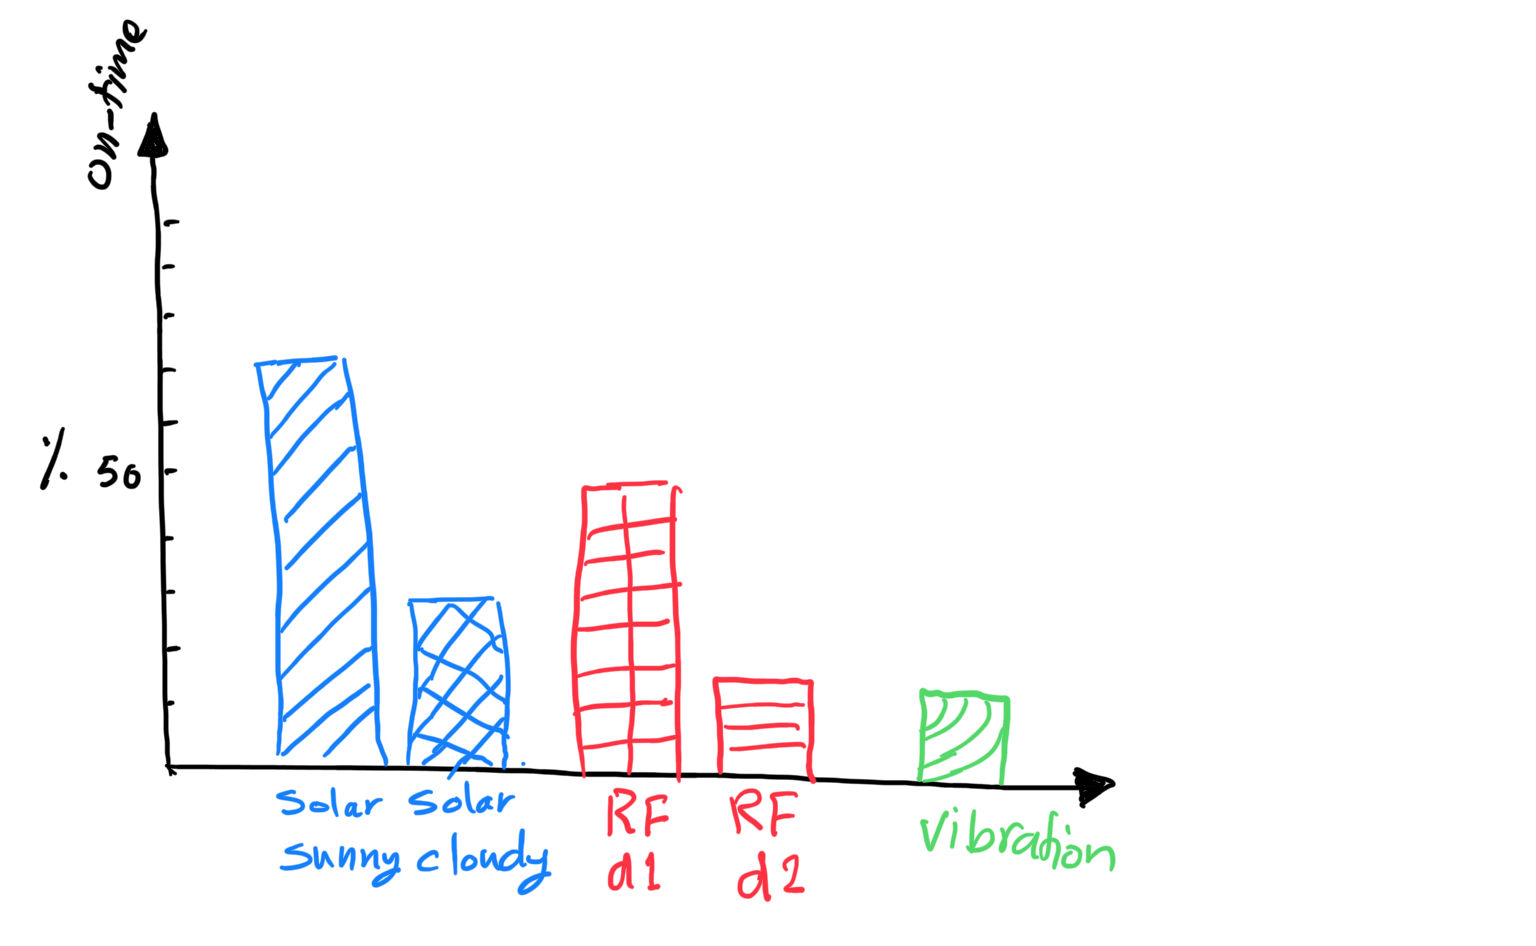
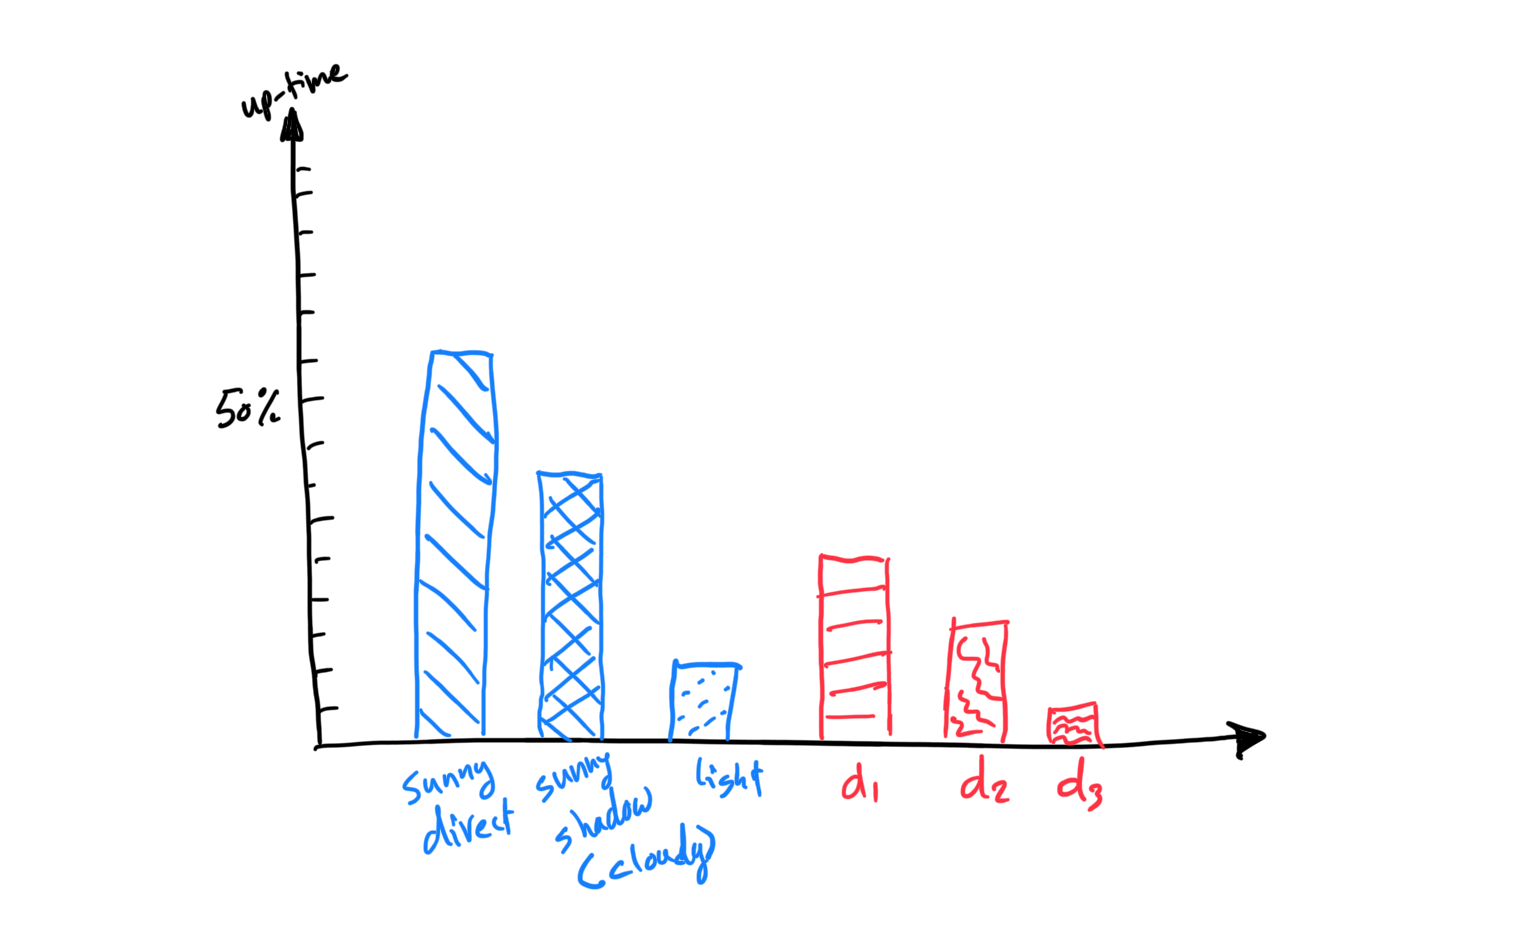
abstract and intero partial update

Changed region(s): [[0.0312, 0.0311, 0.8438, 0.9646]]

diff --git a/paper/sections/introduction.tex b/paper/sections/introduction.tex
@@ -1,39 +1,51 @@
 
 \begin{figure}
 	\centering
-	\begin{subfigure}{\columnwidth}
+%	\begin{subfigure}{\columnwidth}
 		\includegraphics[width=\columnwidth]{figures/intermittent_problem}
-		\caption{The on-time percentage of an intermittent device powered by different energy sources relative to its on/off cycle length}
+		\caption{The up time percentage of an intermittent device powered by different energy sources relative to its on/off cycle length}
 		\label{fig:disInterSys}
-	\end{subfigure}
-	\begin{subfigure}{\columnwidth}
-		\includegraphics[width=\columnwidth]{figures/PowerCycleIntermittentSystem}
-		\caption{The power cycle of an intermittently powered device.}
-		\label{fig:powerCycle}
-	\end{subfigure}
+%	\end{subfigure}
+%	\begin{subfigure}{\columnwidth}
+%		\includegraphics[width=\columnwidth]{figures/PowerCycleIntermittentSystem}
+%		\caption{The power cycle of an intermittently powered device.}
+%		\label{fig:powerCycle}
+%	\end{subfigure}
 \end{figure}
 
-Intermittently powered devices use their environment as an energy source instead of batteries. Therefore, they promise a small, cheap, and maintenance-free version of the current Internet of Things (IoT) edge devices. Driven by this vision, recent years have paid significant attention to intermittent systems~\cite{hicks2017clank,lucia2017intermittent,colin2016chain,colin2018termination,yildirim2018ink}. 
-%
-%%% knowledge gap, unknown information
-However, their inherent sporadic operation patterns (Figure~\ref{fig:disInterSys}) have prevented researchers from demonstrating real word applications, for example \cite{colin2016chain,hester2017timely} present activity recognition applications without driving a real sensor to capture external signals.
 
+
+The Internet of Things is the engine that will drive smart cities. In these cities, cars will not need to wait in front of traffic lights for non-existing pedestrians to cross the road; upon leaving, doors will provide people with weather forecast; and jackets will adjust air circulation based on body temperature. Smart cities will gain their awareness through billions of sensors.
+
+Battery-powered sensors do not provide a viable solution, as batteries require (i) regular maintenance, even rechargeable ones wear out in a few years \cite{xxx}; and (ii) hazard waste management. The edges of the future Internet of Things must leave batteries behind and rely on perpetual energy sources. 
+
+Sunlight, artificial light, and radio frequency waves are examples of perpetual energy sources that can replace the fixed energy reservoirs (batteries). Tiny energy harvesters, however, can only scavenge a very limited power from such energy sources. Therefore, harvesters power sensory nodes intermittently: first, they accumulate a certain amount of energy in their buffers (i.e. super-capacitors). Then, they trigger nodes operation which depletes the buffered energy quickly as power consumption rates tend to be much higher than power accumulation rates. Intermittent Power supply generates many challenges. For example, preserving forward computation progress, enabling timely operations, and the fact that nodes are not always available. 
+
+%Energy harvesters are a promising battery replacement, scavenging power from ambient sources instead of fixed reservoirs. A tiny energy harvester, however, powers a device intermittently: it accumulates energy in its buffer (i.e. super-capacitor) until a threshold is reached, and then it powers the sensors which depletes the energy reservoir and terminates execution. 
+
+Many intermittent power-supply related problems have been addressed. For example, intermittent computation problem, which is concerned with the preservation of an application progress and memory integrity under frequent power failures~\cite{mementos,dino,colin2016chain}; timely operation, which is concerned with data freshness after a power interrupt; event-driven execution, which is concerned with I/O operations under arbitrarily-timed power loss. However, all previous work has considered the intermittency as an inherent characteristic of these systems and have not attempted to control it \todo{make it clear that intermittency is a random process}.  
+
+Despite the significant progress that has been achieved in the intermittent domain, the system availability problem has not been addressed. With arbitrarily timed and time-spanned power-ups, intermittently-powered sensors do not meet the requirements of a wide spectrum of real-world applications. Consequently, they have not gained widespread adaptation. This paper tackles the paradox of continuous sensing on intermittent devices by introducing a new type of sensors that we call \textit{\fullsys} (\sys). The \sys is defined as a group of intermittent nodes with randomized on/off cycles. \sys distinguishes between different energy conditions and adapts its response accordingly to efficiently distribute its resources and to approach continuous sensing.  
+
+We put our observations and theory into test by realizing a \sys instant in the form of distributed intermittent voice assistant agent. We tested the voice assistant in different energy conditions and the results validate our assumptions and observations. 
+
+Highlights of the paper contributions:
+\begin{itemize}
+		\item Introducing a new sensor type: \textit{\fullsys} (\sys) is a group of intermittently powered nodes that takes advantage of the randomized nature of the powering subsystem (energy source and energy harvester) to approach 100\% system availability. \sys has a sensing algorithm that is energy harvesting conditions aware and therefore it is an efficient sensor. 
+		\item Characterizing the behavior of coalesced intermittent sensor under different energy conditions.
+		\item Characterizing the behavior of coalesced intermittent sensor under different event occurrence frequencies and patterns. 
+		\item Implement a coalesced intermittent sensor in the form of a distributed intermittent microphone array. 
+\end{itemize}
+
+
+
+
+
+\todo{to be removed!}
 %
 %%% Hypothesis, question, purpose statement
-This paper responds to the challenge of intermittent power supply by introducing the concept of \textit{distributed intermittent systems}. A distributed intermittent system is defined as the abstraction of a group of tiny intermittently powered devices (or nodes). It increases the temporal and spatial availability of an intermittent system and enables resource distribution such as large number of words templates for spoken words recognition systems. The on-time of the distributed intermittent system should approach continuous time as the number of intermittent devices increases. However, the on-time and off-time of  distributed intermittent systems depend on the environment and the load. As such, we do not expect, for example, a linear relationship between the number of nodes and the overall on-time.
+ It increases the temporal and spatial availability of an intermittent system and enables resource distribution such as large number of words templates for spoken words recognition systems. 
 
 Controlling the on/off cycle of intermittent devices enables adapting them to many real world applications. For example, once a certain on/off cycle is preserved, an intermittent wake-up receiver can be implemented; intermittent acoustic monitoring system for monitoring engines modules---the sound produced by a deformed gear tooth---can be made. Moreover, with the advances in passive communication (such as passive light~\cite{}, and backscatter tag-to-tag~\cite{} communication) battery-free miniaturized sensors can form self-powered wireless sensor network to, for instance, create smart wallpaper and revolutionize smart buildings. 
-
-
-This paper pushes the boundaries of intermittent systems by:
-\todo{update the contributions and challenges}
-\begin{itemize}
-		\item introducing \textit{distributed intermittent systems} to control the duration of the up time of intermittent sensors and increase their responsiveness,
-		\item investigating the relation between distributed intermittent systems power cycle and their environment,
-		\item demonstrating the \textit{world's first} distributed intermittent system: a distributed microphone. 
-\end{itemize}
-%\todo{add the challenges and contributions}
-%%% Approach, plan of attack, proposed solution
-
 
 

diff --git a/paper/sections/disSensing.tex b/paper/sections/disSensing.tex
@@ -24,7 +24,7 @@ Events aware intermittent devices tend to have a longer effective on-time: the t
 %An intermittent device uses a capacitor (a buffer) to store energy and, usually, the capacitor has operational and shutdown thresholds (Figure\,\ref{fig:powerCycle}). 
 The on-time evolution of a event-oblivious distributed intermittent system, as more nodes join, depends on the special diversity of its individual nodes.
 %Depending on their spatial diversity, the nodes of a distributed intermittent system can experience the same energy harvesting conditions or not.
-\subsection{Spatially diverse intermittent devices}
+\subsection{Intermittent devices}
 %
 \begin{figure}
 	\centering
@@ -45,39 +45,35 @@ where $t_{off}$ is the off-time of the distributed system, $t_{sp}$ is the perio
 
 As Figure\,\ref{fig:independentCoverage} shows adding nodes to intermittent distributed systems increases its overall on-time, and consequently, its responsiveness. It is also clear that the benefit of an additional node is inversely proportional to the distributed system's on-time. Equation~\ref{eq:indCov}, however, holds only when nodes wake-ups approximate a uniform distribution. \checkit{When the nodes are in close proximity, we cannot model their power cycles as a random variable drawn from a uniform distribution because their energy charging rates are correlated}. 
 
-\subsection{Spatially invariant intermittent devices}
+%%
+%\begin{figure}
+%	\centering
+%	\begin{subfigure}[t]{0.49\columnwidth}
+%		\includegraphics[width=\textwidth]{figures/offtime.pdf}
+%			\caption{off-time length distribution}
+%		\label{fig:offtime}
+%	\end{subfigure}
+%	\begin{subfigure}[t]{0.49\columnwidth}
+%		\includegraphics[width=\textwidth]{figures/ontime.pdf}
+%		\caption{on-time length distribution}
+%		\label{fig:ontime}
+%	\end{subfigure}
+%		\caption{The distributions of the operational stages of a distributed intermittent system.}		
+%\end{figure}
+%%
+
+The \textit{off-time} of an intermittent device depends only on the environment: high charging rate results in short charging time and vice versa. Hence, we may model the off-time as a random variable drawn from a normal distribution (Figure\,\ref{fig:offtime}). The \textit{on-time}, however, depends on the buffered energy---the harvested energy while the device is off---; the harvested energy while the device is on, which only prolongs the execution; and the load of the device. Therefore, if we assume the load is constant, then we can model the on-time as a random variable drawn from a gamma distribution can be more appropriate (Figure\,\ref{fig:ontime}). Another important factor is \textit{the relation} between the off-time and the on-time. Short off-time indicates a high charging rate. A high harvesting rate results in a non-negligible amount of the harvested-while-executing energy. This energy lengthens the on-time. Therefore, we can conclude that there is an inverse relationship between the on-time and the off-time.
+
 %
-\begin{figure}
-	\centering
-	\begin{subfigure}[t]{0.49\columnwidth}
-		\includegraphics[width=\textwidth]{figures/offtime.pdf}
-			\caption{off-time length distribution}
-		\label{fig:offtime}
-	\end{subfigure}
-	\begin{subfigure}[t]{0.49\columnwidth}
-		\includegraphics[width=\textwidth]{figures/ontime.pdf}
-		\caption{on-time length distribution}
-		\label{fig:ontime}
-	\end{subfigure}
-		\caption{The distributions of the operational stages of a distributed intermittent system.}		
-\end{figure}
+%To flatten the normal distribution we need to add another random variable that is drawn from a uniform-like distribution. To achieve that, we further randomize the length of the on-time of intermittent nodes by injecting delays---putting the nodes into sleep mode---upon devices' power-ups (Figure\,\ref{fig:spreading}). The maximum delay that can be added is bounded by the buffer size and the minimum energy consumption of the load. The length of this delay represents the spreading factor by which we spread the original distribution of the nodes' wake-ups.  
 %
-To understand how the on-time of a distributed intermittent system evolves when devices' power-ups are correlated, we need to investigate the \checkit{variance} of the off-time and on-time intervals.  
+%\begin{figure}
+%	\centering
+%		\includegraphics[width=\columnwidth]{figures/spreading.pdf}
+%	\caption{Spreading normally distributed intermittent devices over a larger range by injecting delays with a uniformly distributed lengths.}
+%	\label{fig:spreading}
+%\end{figure}
 
-The \textit{off-time} of an intermittent device depends only on the environment: high charging rate results in short charging time and vice versa. Hence, we may model the off-time as a random variable drawn from a normal distribution (Figure\,\ref{fig:offtime}). The \textit{on-time}, however, depends on the buffered energy---the harvested energy while the device is off---; the harvested energy while the device is on, which only prolongs the execution; and the load of the device. Therefore, if we assume the load is constant, then we can model the on-time as a random variable drawn from a gamma distribution can be more appropriate (Figure\,\ref{fig:ontime}). Another important factor is \textit{the relation} between the off-time and the on-time. Short off-time indicates a high charging rate. A high harvesting rate results in a non-negligible amount of the harvested-while-executing energy. This energy lengthens the on-time. Therefore, we can conclude that there is an inverse relationship between the on-time and the off-time. \checkit{By considering these three factors (on-time, off-time, and their relation), we can model the variation in intermittent devices' power cycles as a normal distribution}. As a result, when charging rates are correlated, the power-ups of intermittent nodes will tend to cluster around the mean instead of spreading over the entire power cycle of the distributed intermittent system. 
-
-\todo{relocate the following paragraph}
-To flatten the normal distribution we need to add another random variable that is drawn from a uniform-like distribution. To achieve that, we further randomize the length of the on-time of intermittent nodes by injecting delays---putting the nodes into sleep mode---upon devices' power-ups (Figure\,\ref{fig:spreading}). The maximum delay that can be added is bounded by the buffer size and the minimum energy consumption of the load. The length of this delay represents the spreading factor by which we spread the original distribution of the nodes' wake-ups.  
-
-
-\todo{Update equation 1 to include the spreading factor}
-
-\begin{figure}
-	\centering
-		\includegraphics[width=\columnwidth]{figures/spreading.pdf}
-	\caption{Spreading normally distributed intermittent devices over a larger range by injecting delays with a uniformly distributed lengths.}
-	\label{fig:spreading}
-\end{figure}
 %The energy charging rate is environment dependent, while the discharge rate is load dependent. If we assume ambient energy does not fluctuate very quickly, then we can conclude that there is an inverse relationship between the on-time (discharging time) and the off-time (charging time). Short charging time means fast energy shots arrival. High energy harvesting rate prolongs discharge (execution) time, as the device harvests a nonible amount of energy while executing. 
 
 

diff --git a/paper/sections/abstract.tex b/paper/sections/abstract.tex
@@ -1,9 +1,10 @@
+The vision of ubiquitous sensing runs into the reality of battery technology---batteries are short-lived (about 14,000 tons of rechargeable batteries are thrown away in United States); hazard; and costly, i.e. the replacement and the disposing costs. Intermittently powered sensors forgo batteries and power themselves from ambient energy. Ambient energy is marginal and unpredictable. Consequently, intermittent sensors operate sporadically, when sufficient energy to do a simple task is buffered. Sporadic sensing does not meet many real-world applications; therefore, intermittent sensors have not been widely adapted. We present \textit{\fullsys} (\sys) an intermittent sensor that sense continuously! The \sys design takes advantage of the randomization embedded into the powering subsystem---energy source and energy harvesters---to distribute its nodes uptime. Additionally, we realize the \sys in a prototype of a batteryless voice assistant agent. Our results show that x\% of the commands are captured \todo{uptime results}.
+%%
+%Small sensors are desired. As battery size shrinks, its stored energy reduces too. This imposes regular maintenance of devices otherwise functional. Sensors have to forgo batteries and rely on perpetual energy sources, such as light, to enable long-term affordable sensing. Battery-less sensors, however, operate intermittently, when ambient energy is available. Intermittent operation prevents wide adaptation of battery-less sensors as it does not meet the requirements of many real world applications. 
 %
-Small sensors are desired. As battery size shrinks, its stored energy reduces too. This imposes regular maintenance of devices otherwise functional. Sensors have to forgo batteries and rely on perpetual energy sources, such as light, to enable long-term affordable sensing. Battery-less sensors, however, operate intermittently, when ambient energy is available. Intermittent operation prevents wide adaptation of battery-less sensors as it does not meet the requirements of many real world applications. 
-
-To bridge this gap we propose the concept of a distributed intermittent system---the abstraction of a group of intermittently powered devices (or nodes). We hypothesize that as the number of intermittent devices increase their collective up time approaches continuous time. However, if power cycles of intermittently powered devices are correlated, then they may tend to cluster and the benefit of adding nodes demolish, unless special techniques are applied. 
-
-%The on/off cycles of intermittent devices can be correlated or not, depending mainly on their relative locations and running applications. If sensors' power cycles are uncorrelated, then adding more sensors to a distributed intermittent system enables longer observation timespan. Correlated power cycles, on the other hand, tend to cluster, around the mean of their distribution, and therefore adding more sensors is of less benefit unless special technique is applied. 
-
-This paper investigates distributed intermittent systems, proposes techniques to control the overall on-time of distributed systems, and demonstrates the first distributed intermittent system, namely, a distributed intermittent microphone. 
-
+%To bridge this gap we propose the concept of a distributed intermittent system---the abstraction of a group of intermittently powered devices (or nodes). We hypothesize that as the number of intermittent devices increase their collective up time approaches continuous time. However, if power cycles of intermittently powered devices are correlated, then they may tend to cluster and the benefit of adding nodes demolish, unless special techniques are applied. 
+%
+%%The on/off cycles of intermittent devices can be correlated or not, depending mainly on their relative locations and running applications. If sensors' power cycles are uncorrelated, then adding more sensors to a distributed intermittent system enables longer observation timespan. Correlated power cycles, on the other hand, tend to cluster, around the mean of their distribution, and therefore adding more sensors is of less benefit unless special technique is applied. 
+%
+%This paper investigates distributed intermittent systems, proposes techniques to control the overall on-time of distributed systems, and demonstrates the first distributed intermittent system, namely, a distributed intermittent microphone. 
+%

diff --git a/paper/sections/relatedWork.tex b/paper/sections/relatedWork.tex
@@ -2,6 +2,9 @@
 Many batteryless energy-harvesting platforms have been proposed, for example Wireless Identification and Sensing Platform (WISP)~\cite{smith_ubicomp_2006} and its variants such as NFC-WISP~\cite{zhao2015nfc}, WISPcam~\cite{naderiparizi_rfid_2015}, and NeuralWISP~\cite{yeager2009neuralwisp}, batteryless phone~\cite{talla2017battery}, ambient backscatter tag~\cite{liu2013ambient} and Moo~\cite{moo}.
 
 \subsection{Intermittent execution}
+\todo{brought from introduction}Mementos~\cite{mementos}proposed a
+Checkpointing-based approach to enable long-running applications on intermittently-powered devices. DINO~\cite{dino}enables safe non-volatile memory access despite power failures. Chain~\cite{colin2016chain} minimizes the amount of data need to be protected by introducing the concepts of atomic tasks and data-channels. Alpaca and Ratchet~\cite{maeng2017alpaca,woude2016ratchet} use compilers to automate intermittent code generation. Mayfly~\cite{hester2017timerly} enables time-aware intermittent computing. InK~\cite{yildirim2018ink} introduces event-driven intermittent execution.
+
 % Sleep not to die 
 Intermittent systems are regarded as the successor of energy-aware systems. Dewdrop~\cite{buettner2011dewdrop} is an energy-aware runtime for (Computational) RFIDs such as WISP. 
 Dewdrop goes into low-power mode until sufficient energy for a given task is accumulated. QuarkOS~\cite{zhang2013quarkos} divides the given task (i.e. sending a message) into small segments and sleeps after finishing a segment for charging energy. However, these systems are not disruption tolerance.  

diff --git a/paper/paper.tex b/paper/paper.tex
@@ -6,15 +6,16 @@
 %% New command for TODOs
 \newcommand{\todo}[1]{}
 \renewcommand{\todo}[1]{{\color{red} [{#1}]}}
-\newcommand{\checkit}[1]{\textcolor{red}{Check---} \hl{#1}}
-\newcommand{\sys}{BFAlexa\xspace}
+\newcommand{\checkit}[1]{\textcolor{red}{Check---} \hl{#1}} 
+\newcommand{\sys}{CIS\xspace}
+\newcommand{\fullsys}{Coalesced Intermittent Sensor}
 %\newcommand{\fullsys}{\sys: Battery-less Distributed Microphone}
-\newcommand{\fullsys}{Distributed Batteryless Intermittent Sensors}
+%\newcommand{\fullsys}{Distributed Batteryless Intermittent Sensors}
 %\newcommand{\fullsys}{Distributed Intermittent Systems: Theory and Practice}
 
 \begin{document}
 
-\title{\fullsys} 
+\title{Continuous Sensing on Intermittent Power} 
 
 \input{preamble/authors}
 
@@ -66,10 +67,6 @@
 \label{sec:introduction}
 \input{sections/introduction}
 
-\section{Background}
-\label{sec:background}
-\input{sections/background}
-
 \section{Batteryless Distributed Sensing}
 \label{sec:disSensing}
 \input{sections/disSensing}
@@ -82,6 +79,10 @@
 \section{Evaluation}
 \label{sec:evaluation}
 \input{sections/evaluation}
+
+\section{Background}
+\label{sec:background}
+\input{sections/background}
 
 \section{Related Work}
 \label{sec:relatedWork}
